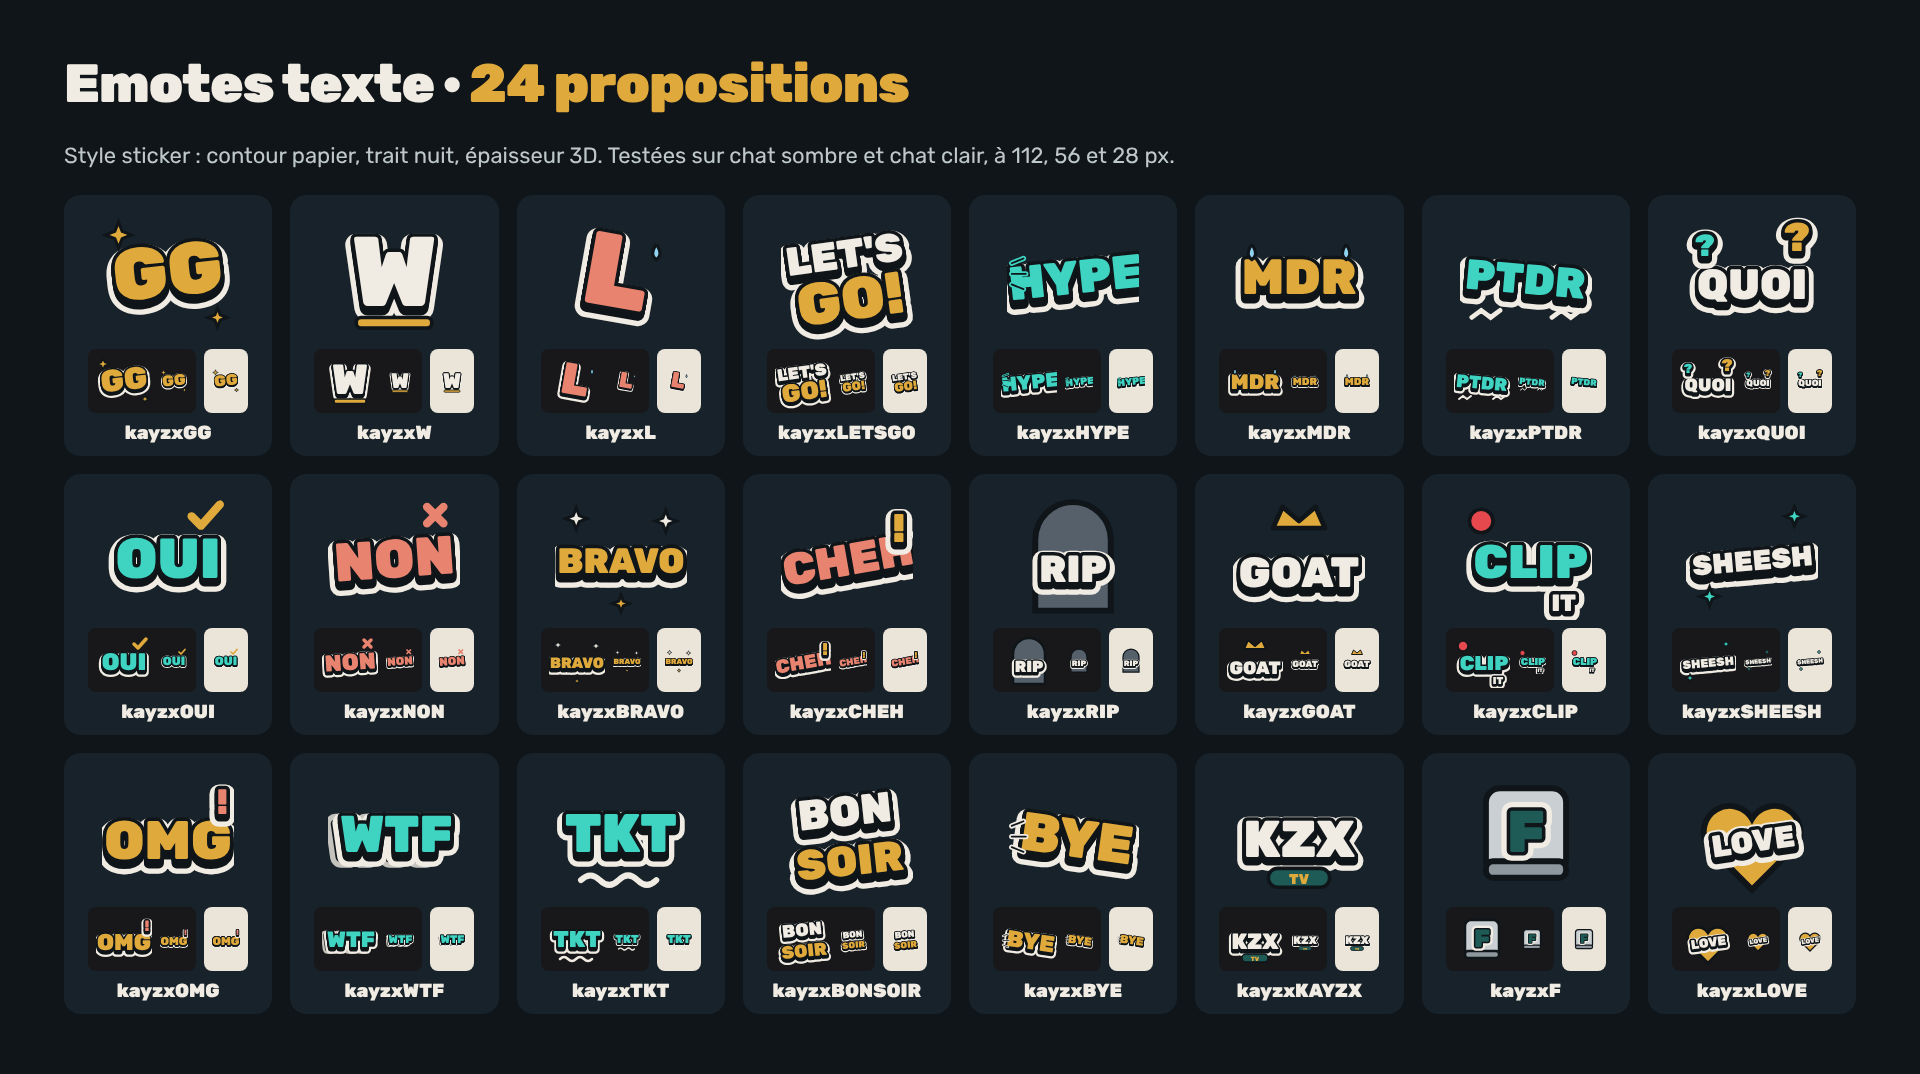
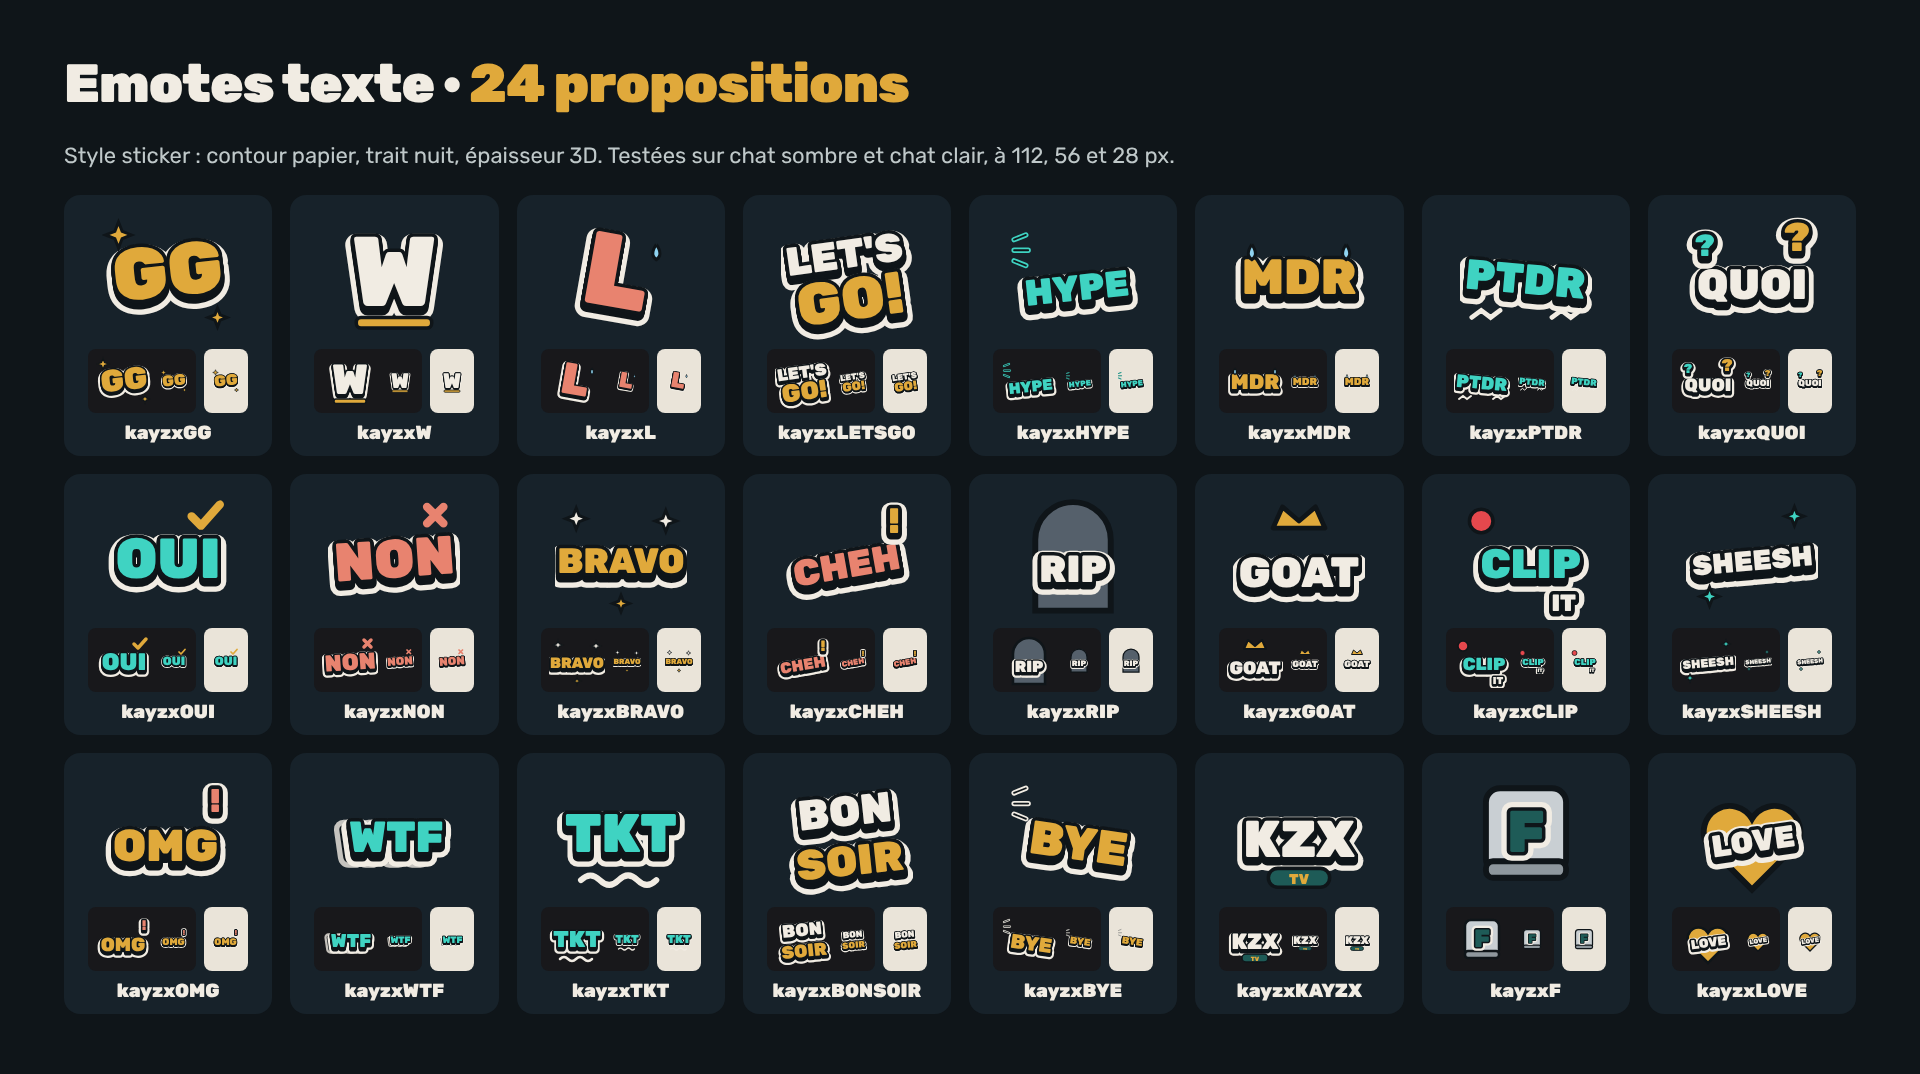
Emotes : export Twitch des 24 emotes texte (PNG transparents 112, 56, 28 px), recadrage automatique
Claude-Session: https://claude.ai/code/session_013v3unX7UwZ24nM2cJEMJGu

diff --git a/stream-pack/emotes/emotes-texte.html b/stream-pack/emotes/emotes-texte.html
@@ -34,25 +34,25 @@ const E = {
   W: mot('W', 56, 82, 84, P) + `<rect x="24" y="92" width="64" height="9" rx="4" fill="${M}" stroke="${N}" stroke-width="3"/>`,
   L: tourne(10, mot('L', 52, 84, 88, C)) + larme(86, 30),
   LETSGO: tourne(-8, mot("LET'S", 56, 50, 34, P) + mot('GO!', 56, 94, 50, M)),
-  HYPE: tourne(-6, mot('HYPE', 58, 72, 40, TN)) + traits(4, 46, TN),
+  HYPE: tourne(-6, mot('HYPE', 58, 78, 31, TN)) + traits(6, 26, TN),
   MDR: mot('MDR', 56, 72, 42, M) + larme(16, 30) + larme(96, 30),
   PTDR: tourne(5, mot('PTDR', 56, 72, 36, TN)) + `<path d="M10 92 l8 -6 l8 6 l8 -6 M78 92 l8 -6 l8 6 l8 -6" stroke="${P}" stroke-width="4" fill="none" stroke-linecap="round"/>`,
   QUOI: mot('QUOI', 56, 76, 36, P) + mot('?', 94, 36, 34, M, 3) + mot('?', 16, 40, 26, TN, 3),
   OUI: mot('OUI', 56, 76, 48, TN) + `<path d="M76 24 l8 8 l16 -18" stroke="${M}" stroke-width="7" fill="none" stroke-linecap="round" stroke-linejoin="round"/>`,
   NON: tourne(-4, mot('NON', 56, 76, 46, C)) + `<path d="M84 16 l14 14 M98 16 l-14 14" stroke="${C}" stroke-width="7" stroke-linecap="round"/>`,
   BRAVO: mot('BRAVO', 56, 72, 30, M) + etincelle(18, 26, 9, P) + etincelle(94, 28, 9, P) + etincelle(56, 98, 7),
-  CHEH: tourne(-10, mot('CHEH', 56, 74, 38, C)) + mot('!', 100, 46, 34, M, 3),
+  CHEH: tourne(-10, mot('CHEH', 54, 76, 31, C)) + mot('!', 96, 38, 30, M, 3),
   RIP: `<path d="M24 104 V44 a32 32 0 0 1 64 0 V104 Z" fill="#55606B" stroke="${N}" stroke-width="5"/>` + mot('RIP', 56, 80, 32, P, 3),
   GOAT: `<path d="M34 34 l8 -18 l14 12 l14 -12 l8 18 z" fill="${M}" stroke="${N}" stroke-width="4" stroke-linejoin="round"/>` + mot('GOAT', 56, 84, 36, P),
-  CLIP: mot('CLIP', 60, 76, 40, TN) + `<circle cx="18" cy="28" r="10" fill="#E5484D" stroke="${N}" stroke-width="3"/>` + mot('IT', 88, 104, 20, P, 2),
+  CLIP: mot('CLIP', 60, 76, 35, TN) + `<circle cx="18" cy="28" r="10" fill="#E5484D" stroke="${N}" stroke-width="3"/>` + mot('IT', 88, 104, 20, P, 2),
   SHEESH: tourne(-5, mot('SHEESH', 56, 70, 24, P)) + etincelle(20, 92, 8, TN) + etincelle(92, 24, 8, TN),
-  OMG: mot('OMG', 56, 78, 46, M) + mot('!', 102, 40, 30, C, 3),
-  WTF: `<g opacity=".8" transform="translate(-4 2)">${mot('WTF', 56, 76, 44, C, 0)}</g>` + mot('WTF', 58, 72, 44, TN),
+  OMG: mot('OMG', 54, 80, 38, M) + mot('!', 96, 38, 28, C, 3),
+  WTF: `<g opacity=".8" transform="translate(-4 2)">${mot('WTF', 56, 76, 37, C, 0)}</g>` + mot('WTF', 58, 72, 37, TN),
   TKT: mot('TKT', 56, 72, 46, TN) + `<path d="M22 96 q8 -8 16 0 t16 0 t16 0 t16 0" stroke="${P}" stroke-width="5" fill="none" stroke-linecap="round"/>`,
   BONSOIR: tourne(-6, mot('BON', 56, 50, 36, P) + mot('SOIR', 56, 92, 36, M)),
-  BYE: tourne(8, mot('BYE', 60, 76, 46, M)) + traits(4, 50, P),
+  BYE: tourne(8, mot('BYE', 62, 78, 40, M)) + traits(6, 22, P),
   KAYZX: mot('KZX', 56, 76, 44, P) + `<rect x="30" y="86" width="52" height="16" rx="8" fill="${T}" stroke="${N}" stroke-width="3"/><text x="56" y="99" text-anchor="middle" font-family="Rubik" font-weight="900" font-size="12" fill="${M}">TV</text>`,
-  F: `<rect x="22" y="18" width="68" height="72" rx="12" fill="#C9CFD3" stroke="${N}" stroke-width="5"/><rect x="22" y="80" width="68" height="14" rx="6" fill="#8E979D" stroke="${N}" stroke-width="5"/>` + mot('F', 56, 72, 50, N === N ? T : T, 0),
+  F: `<rect x="22" y="18" width="68" height="72" rx="12" fill="#C9CFD3" stroke="${N}" stroke-width="5"/><rect x="22" y="80" width="68" height="14" rx="6" fill="#8E979D" stroke="${N}" stroke-width="5"/>` + mot('F', 56, 72, 50, T, 0),
   LOVE: `<path d="M56 104 L18 66 a20 20 0 0 1 38 -22 a20 20 0 0 1 38 22 Z" fill="${M}" stroke="${N}" stroke-width="5"/>` + tourne(-8, mot('LOVE', 56, 72, 26, P, 3)),
 };
 const svg = (c, t) => `<svg width="${t}" height="${t}" viewBox="0 0 112 112">${c}</svg>`;

diff --git a/stream-pack/emotes/exporter.js b/stream-pack/emotes/exporter.js
@@ -1,0 +1,28 @@
+// Exporte les 24 emotes texte au format Twitch : PNG transparents 112, 56 et 28 px dans emotes/twitch/<taille>/kayzx<NOM>.png.
+//   NODE_PATH=/opt/node-tools/node_modules node emotes/exporter.js   (depuis stream-pack/)
+const { chromium } = require('playwright');
+const fs = require('fs'), path = require('path');
+(async () => {
+  const ici = path.join(process.cwd(), 'emotes'), police = 'file://' + path.join(process.cwd(), 'da', 'Rubik-3.ttf');
+  const nav = await chromium.launch(), page = await nav.newPage();
+  await page.goto('file://' + path.join(ici, 'emotes-texte.html'));
+  const E = await page.evaluate('E');
+  for (const t of [112, 56, 28]) {
+    const dossier = path.join(ici, 'twitch', String(t)); fs.mkdirSync(dossier, { recursive: true });
+    await page.setViewportSize({ width: t, height: t });
+    for (const [nom, c] of Object.entries(E)) {
+      await page.setContent(`<style>@font-face{font-family:Rubik;font-weight:900;src:url(${police})}*{margin:0}html,body{background:transparent}</style>
+        <svg width="${t}" height="${t}" viewBox="0 0 112 112" style="display:block"><g>${c}</g></svg>`);
+      await page.evaluate(() => document.fonts.ready);
+      // Recadrage : la boîte du dessin + 8 (moitié du contour papier) + 2 de marge, en carré, jamais plus petit que 112.
+      await page.evaluate(() => {
+        const b = document.querySelector('g').getBBox(), m = 10;
+        const x0 = Math.min(0, b.x - m), y0 = Math.min(0, b.y - m), x1 = Math.max(112, b.x + b.width + m), y1 = Math.max(112, b.y + b.height + m);
+        const c = Math.max(x1 - x0, y1 - y0), cx = (x0 + x1) / 2, cy = (y0 + y1) / 2;
+        document.querySelector('svg').setAttribute('viewBox', `${cx - c / 2} ${cy - c / 2} ${c} ${c}`);
+      });
+      await page.screenshot({ path: path.join(dossier, `kayzx${nom}.png`), omitBackground: true });
+    }
+  }
+  await nav.close();
+})();
